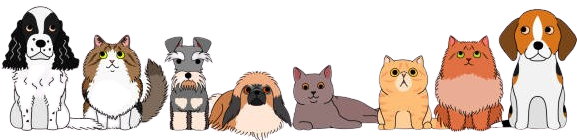
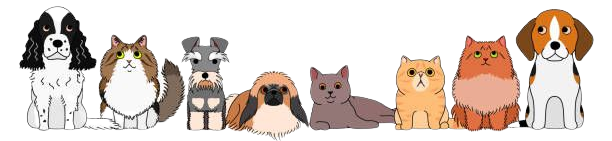
about me page added

diff --git a/lib/about.dart b/lib/about.dart
@@ -1,16 +1,106 @@
-import 'package:flutter/src/widgets/container.dart';
-import 'package:flutter/src/widgets/framework.dart';
+import 'package:flutter/material.dart';
+import 'package:flutter_svg/flutter_svg.dart';
+import 'package:url_launcher/url_launcher.dart';
 
 class AboutMe extends StatefulWidget {
-  const AboutMe({super.key});
+  bool trlang;
+  AboutMe({super.key,required this.trlang});
 
   @override
   State<AboutMe> createState() => _AboutMeState();
 }
-
 class _AboutMeState extends State<AboutMe> {
   @override
   Widget build(BuildContext context) {
-    return Container();
+    return Scaffold(
+      appBar: AppBar(
+      leadingWidth: 44,
+      leading:IconButton(
+        padding: EdgeInsets.symmetric(horizontal: 10),
+        onPressed: (){
+          Navigator.pop(context);
+        }, icon:Icon(Icons.arrow_back_ios,size: 20,color: Color(0xFFfefeff))),
+      backgroundColor: Colors.transparent,
+      elevation: 0,
+      ),
+      backgroundColor: Color(0xFF012340),
+      body: Column(
+        mainAxisAlignment: MainAxisAlignment.center,
+        crossAxisAlignment: CrossAxisAlignment.center,
+        children: [
+          Text("TUĞÇE GÖKÇEOĞLU",style: TextStyle(fontWeight: FontWeight.bold, fontSize: 25,color: Color(0xFFfefeff),shadows: [
+              Shadow(
+                blurRadius:15,
+                color: Color.fromARGB(255,255,255,1000),
+                offset: Offset(3, 3), 
+              ),],)),  
+          SizedBox(height: 16,),
+          Padding(
+            padding: EdgeInsets.symmetric(horizontal: 50),
+            child: Text(widget.trlang == true ? "Kendimi bilgisayar alanında geliştirmek amacıyla üniversite eğitimimi Bilgisayar Mühendisliği dalında tercih ettim. Gelişen teknoloji dünyasının bir parçası olup edindiğim mühendislik bilgileri ile teknolojiyi bir adım daha üste taşımayı amaçlayan bilgisayar mühendisi adayıyım." :"I preferred my university education in the field of Computer Engineering in order to improve myself in the computer field. I am a computer engineer candidate who aims to be a part of the developing technology world and to take technology one step further with the engineering knowledge I have acquired.",
+            style: TextStyle(letterSpacing: 1.5,height: 1.5,color: Color(0xFFfefeff)),textAlign: TextAlign.center,)),
+          SizedBox(height: 16,),
+          Padding(
+            padding: EdgeInsets.symmetric(horizontal: 50),
+            child: Text(widget.trlang == true ? "Aşağıdaki Sosyal Medya İconlarına Tıklayarak Bana Ulaşabilirsiniz." : "You can reach me by clicking on the Social Media Icons below.",style: TextStyle(letterSpacing: 1.5,height: 1.5,color:Color(0xFFfefeff)),textAlign: TextAlign.center,),
+          ),
+          SizedBox(height: 16,),
+          Row(
+            mainAxisAlignment: MainAxisAlignment.center,
+            crossAxisAlignment: CrossAxisAlignment.center,
+            children: [
+              IconButton(
+              padding: EdgeInsets.only(right: 18),
+              constraints: BoxConstraints(),
+              onPressed: (){
+                widget.trlang == true ? _sendMailTr() : _sendMailEng();
+              }, 
+              icon:Icon(Icons.mail,color: Colors.white,size: 30,),
+              ),
+              IconButton(
+              padding: EdgeInsets.only(right: 8),
+              constraints: BoxConstraints(),
+              onPressed: (){
+                _launchUri("https://www.linkedin.com/in/tgcegkceoglu/");
+              }, 
+              icon:SvgPicture.asset('assets/images/linkedin.svg',height: 30,width: 30,),
+              ),
+              IconButton(
+              padding: EdgeInsets.zero,
+              constraints: BoxConstraints(),
+              onPressed: (){
+                _launchUri("https://github.com/tgcegkceoglu");
+              }, 
+              icon:SvgPicture.asset('assets/images/github.svg',height: 30,width: 30,),
+              ),
+            ],
+          ),
+        
+        ],
+      ),
+    );
+  }
+
+  _sendMailTr() async {
+    const mailTo ="tgcegkceoglu4@gmail.com"; 
+    const subjectText = "Tanısal Destek Sistemi";
+    const uri = 'mailto:$mailTo?subject=$subjectText';
+    if (await canLaunchUrl(Uri.parse(uri))) {
+      await launchUrl(Uri.parse(uri));
+    }
+  }
+  _sendMailEng() async {
+    const mailTo ="tgcegkceoglu4@gmail.com"; 
+    const subjectText = "Diagnostic Support System";
+    const uri = 'mailto:$mailTo?subject=$subjectText';
+    if (await canLaunchUrl(Uri.parse(uri))) {
+      await launchUrl(Uri.parse(uri));
+    }
+  }
+
+  _launchUri(uri) async {
+    if (await canLaunchUrl(Uri.parse(uri))) {
+      await launchUrl(Uri.parse(uri));
+    }
   }
 }

diff --git a/lib/systemSearch/searchSignDiagnosis.dart b/lib/systemSearch/searchSignDiagnosis.dart
@@ -3,6 +3,7 @@ import 'package:consultant/systemSearch/systemSearch.dart';
 import 'package:consultant/widget/button.dart';
 import 'package:dropdown_button2/dropdown_button2.dart';
 import 'package:flutter/material.dart';
+import 'package:url_launcher/url_launcher.dart';
 
 class SearchSignDiagnosis extends StatefulWidget {
  bool trlang;
@@ -45,7 +46,7 @@ class _SearchSignDiagnosisState extends State<SearchSignDiagnosis> {
   @override
   Widget build(BuildContext context) {
     return Scaffold(
-      bottomNavigationBar: Image.asset('assets/images/animal2.png'),
+      bottomNavigationBar: Image.asset('assets/images/animal.png'),
       backgroundColor: Color(0xFFF5F5F5),
       appBar: AppBar(
           leadingWidth: 44,
@@ -53,8 +54,21 @@ class _SearchSignDiagnosisState extends State<SearchSignDiagnosis> {
             padding: EdgeInsets.symmetric(horizontal: 10),
             onPressed: (){
               Navigator.pop(context);
-            }, icon:Icon(Icons.arrow_back_ios,size: 20,color: Color(0xFF012340),)),
-          backgroundColor: Colors.transparent,
+            }, icon:Icon(Icons.arrow_back_ios,size: 20,color: Colors.white,)),
+          title: Text(widget.trlang == true ? "Tanısal Destek Sistemi" : "Diagnostic Support System",style:TextStyle(fontWeight: FontWeight.bold)),
+          actions: [
+            Padding(
+              padding: const EdgeInsets.symmetric(vertical: 10,horizontal: 15),
+              child: GestureDetector(
+                onTap:() async{
+                   if (await canLaunchUrl(Uri.parse("http://haytek.mehmetakif.edu.tr"))) {
+                      await launchUrl(Uri.parse("http://haytek.mehmetakif.edu.tr"));
+                    }
+                },
+                child: Image.asset('assets/images/haytek.png',)),
+            )
+          ],
+          backgroundColor:Color(0xFF012340),
           elevation: 0,
       ),
       body: Padding(

diff --git a/lib/diagnosisSearch/searchDiagnosis.dart b/lib/diagnosisSearch/searchDiagnosis.dart
@@ -3,6 +3,7 @@ import 'package:consultant/widget/button.dart';
 import 'package:consultant/widget/textfield.dart';
 import 'package:dropdown_button2/dropdown_button2.dart';
 import 'package:flutter/material.dart';
+import 'package:url_launcher/url_launcher.dart';
 
 class SearchDiagnosis extends StatefulWidget {
   final bool trlang;
@@ -38,7 +39,7 @@ class _SearchDiagnosisState extends State<SearchDiagnosis> {
   @override
   Widget build(BuildContext context) {
     return Scaffold(
-      bottomNavigationBar: Image.asset('assets/images/animal2.png'),
+      bottomNavigationBar: Image.asset('assets/images/animal.png'),
       backgroundColor: Color(0XFFF5F5F5),
       appBar: AppBar(
           leadingWidth: 44,
@@ -51,7 +52,13 @@ class _SearchDiagnosisState extends State<SearchDiagnosis> {
           actions: [
             Padding(
               padding: const EdgeInsets.symmetric(vertical: 10,horizontal: 15),
-              child: Image.asset('assets/images/haytek.png',height: 35,width: 35,),
+              child: GestureDetector(
+                onTap:() async{
+                   if (await canLaunchUrl(Uri.parse("http://haytek.mehmetakif.edu.tr"))) {
+                      await launchUrl(Uri.parse("http://haytek.mehmetakif.edu.tr"));
+                    }
+                },
+                child: Image.asset('assets/images/haytek.png',)),
             )
           ],
 

diff --git a/lib/homepage.dart b/lib/homepage.dart
@@ -1,5 +1,6 @@
 import 'dart:ui';
 
+import 'package:consultant/about.dart';
 import 'package:consultant/diagnosisSearch/searchDiagnosis.dart';
 import 'package:consultant/systemSearch/searchSignDiagnosis.dart';
 import 'package:consultant/widget/homePageContainer.dart';
@@ -19,7 +20,7 @@ class _HomePageState extends State<HomePage> {
   Widget build(BuildContext context) {
     return Scaffold(
       floatingActionButton: TextButton(child: Text(trlang==true ? "Hakkımda" : "About Me",style: TextStyle(color: Colors.white,fontWeight: FontWeight.bold)),onPressed: (){
-        
+        Navigator.push(context, MaterialPageRoute(builder: (context) => AboutMe(trlang: trlang,))); 
       },),
       backgroundColor: Color(0xFF012340),
       body: Padding(

diff --git a/macos/Flutter/GeneratedPluginRegistrant.swift b/macos/Flutter/GeneratedPluginRegistrant.swift
@@ -5,6 +5,8 @@
 import FlutterMacOS
 import Foundation
 
+import url_launcher_macos
 
 func RegisterGeneratedPlugins(registry: FlutterPluginRegistry) {
+  UrlLauncherPlugin.register(with: registry.registrar(forPlugin: "UrlLauncherPlugin"))
 }

diff --git a/lib/main.dart b/lib/main.dart
@@ -1,3 +1,4 @@
+import 'package:consultant/about.dart';
 import 'package:consultant/cubit/DiagnosisCubit.dart';
 import 'package:consultant/cubit/systemCubit.dart';
 import 'package:consultant/homepage.dart';

diff --git a/linux/flutter/generated_plugin_registrant.cc b/linux/flutter/generated_plugin_registrant.cc
@@ -6,6 +6,10 @@
 
 #include "generated_plugin_registrant.h"
 
+#include <url_launcher_linux/url_launcher_plugin.h>
 
 void fl_register_plugins(FlPluginRegistry* registry) {
+  g_autoptr(FlPluginRegistrar) url_launcher_linux_registrar =
+      fl_plugin_registry_get_registrar_for_plugin(registry, "UrlLauncherPlugin");
+  url_launcher_plugin_register_with_registrar(url_launcher_linux_registrar);
 }

diff --git a/windows/flutter/generated_plugin_registrant.cc b/windows/flutter/generated_plugin_registrant.cc
@@ -6,6 +6,9 @@
 
 #include "generated_plugin_registrant.h"
 
+#include <url_launcher_windows/url_launcher_windows.h>
 
 void RegisterPlugins(flutter::PluginRegistry* registry) {
+  UrlLauncherWindowsRegisterWithRegistrar(
+      registry->GetRegistrarForPlugin("UrlLauncherWindows"));
 }
